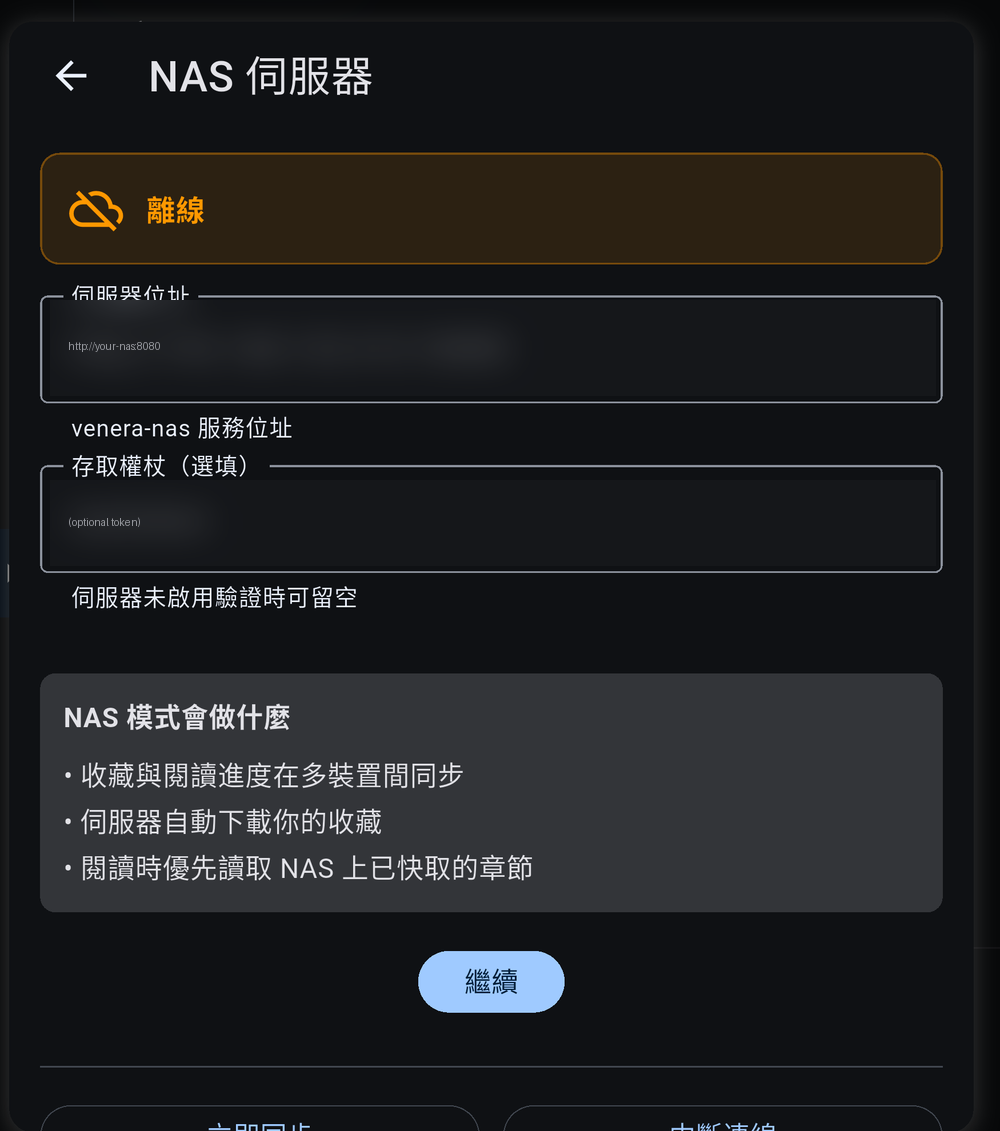
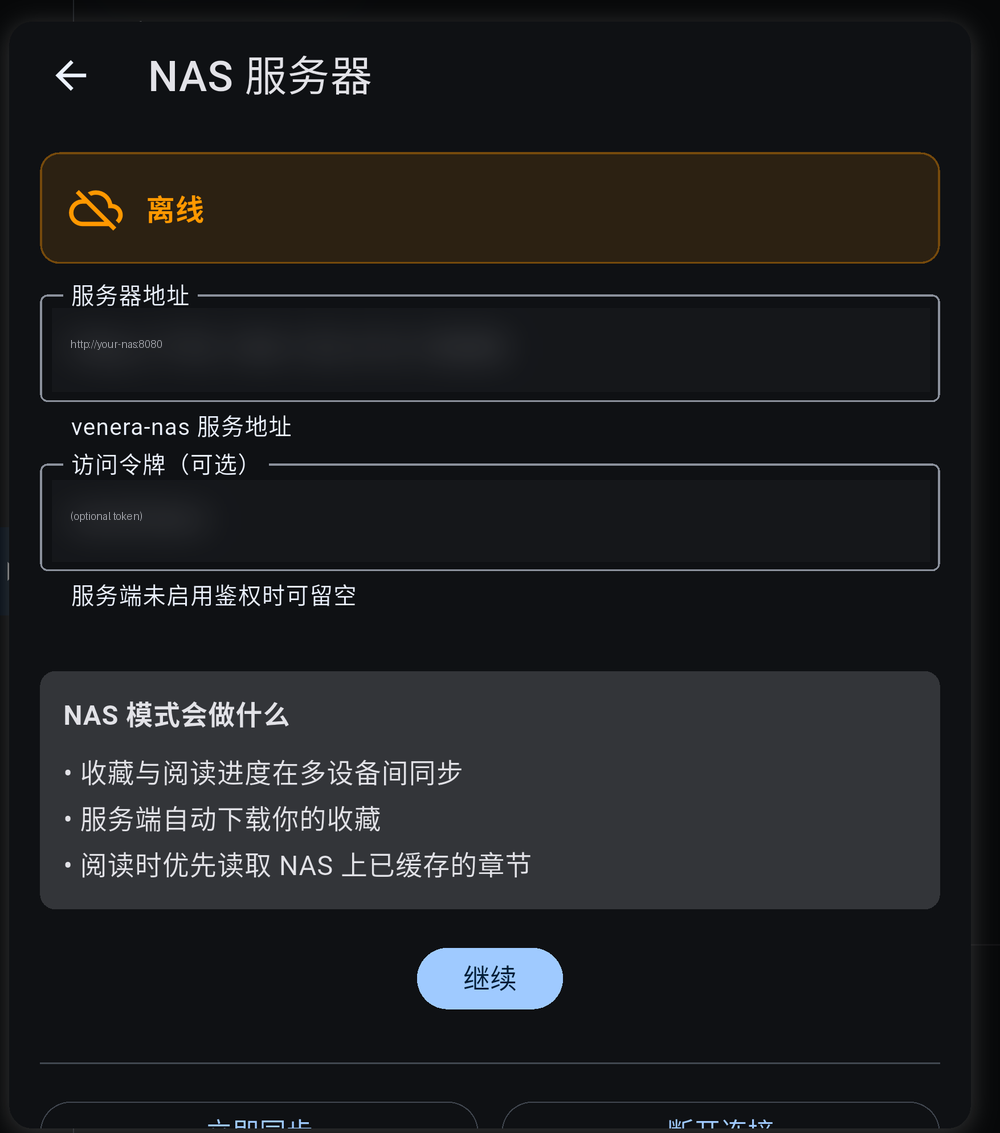
docs: README 按使用流程重写，补管理面板与阅读截图，sync-flow 重画
- 离线模式定位修正：意义是『不关心更新、只想尽快从 NAS 取已缓存的
  元数据和正文』，删除编造的『NAS 连不上时本地缓存照常读』场景
- 第 2/3 步展开讲清因果：连接后收藏自动同步到服务端并自动下载，
  NAS 缓存完成后阅读直接读 NAS，不再请求源站也不占本地存储
- 新增截图（全部简体环境）：管理面板下载任务页 / 收藏夹页、
  阅读时『已从 NAS 缓存加载』Snackbar（背景模糊处理）
- sync-flow.svg 重画：三泳道时序（设备A / 服务端 / 设备B），
  W1 对比压到底部一行
- 界面文案全部简体化（伺服器→服务器等），截图同步重截

diff --git a/README.md b/README.md
@@ -44,21 +44,34 @@ docker run -d --name venera-nas \
 
 </details>
 
-**2. 客户端连接**：设置 → 應用 → NAS 伺服器，填地址和 token。首次连接会把本地的收藏、历史、源账号自动推上去。
+**2. 客户端连接**：设置 → 应用 → NAS 服务器，填地址和 token，点继续。
 
 ![NAS 设置页](docs/assets/nas-settings.png)
 
-**3. 之后正常用**：该搜搜、该看看。管理面板在 `http://<nas>:8080/admin`——库存、任务、收藏夹都在上面，失败任务可重试，还有一个「补全元数据信息」按钮补作者简介。
+连接成功后，客户端会做两件事：
+
+- 把本地的**收藏夹同步**到服务端，服务端随即**自动下载**已收藏漫画的章节——你不需要手动点下载，收藏即下载
+- 把阅读历史、源账号（含 Cookie）一并推上去，多设备从此共享同一份状态
+
+下载在后台排队进行，进度随时可以在管理面板看：浏览器打开 `http://<nas>:8080/admin`。下载任务页能看到每一本的进度和状态，失败的可一键重试；收藏夹页能看到每个收藏夹已缓存了多少本。
+
+| | |
+|---|---|
+| ![下载任务](docs/assets/admin-jobs.png) | ![收藏夹](docs/assets/admin-folders.png) |
+
+**3. 读的时候**：NAS 缓存完成后，打开收藏里的漫画，页面直接从 NAS 取——**不再请求源站，也不占本地存储**。读起来是这样的：
+
+![已从 NAS 缓存加载](docs/assets/nas-read-snackbar.png)
 
 ## 离线模式
 
-首页顶部的「离线 NAS 模式」开关，决定 **NAS 缓存之外的请求还发不发**：
+首页顶部的「离线 NAS 模式」开关，为一种场景准备：**你不关心收藏有没有更新，只想尽快从 NAS 取到已缓存的元数据和正文来读**。
+
+开：所有请求都指向 NAS，已缓存的内容秒开，没有任何源站请求、不存在等源站响应的等待。
+
+关：NAS 缓存 → 源站，NAS 没有的内容会去源站现取（比如刚更新的章节）。想追更就保持关闭。
 
 ![离线模式](docs/assets/offline-mode.svg)
-
-默认关。日常在家、网络顺畅，保持关闭即可——三级兜底自动工作，NAS 缓存先顶上，源站只兜最底。
-
-人在外面、通过内网穿透（DDNS / frp / Tailscale 均可）访问家里 NAS 时，打开它：页面路径在 NAS 上闭环，不向源站发任何请求，不用折腾代理和超时。
 
 ## 原理（想折腾再读）
 
